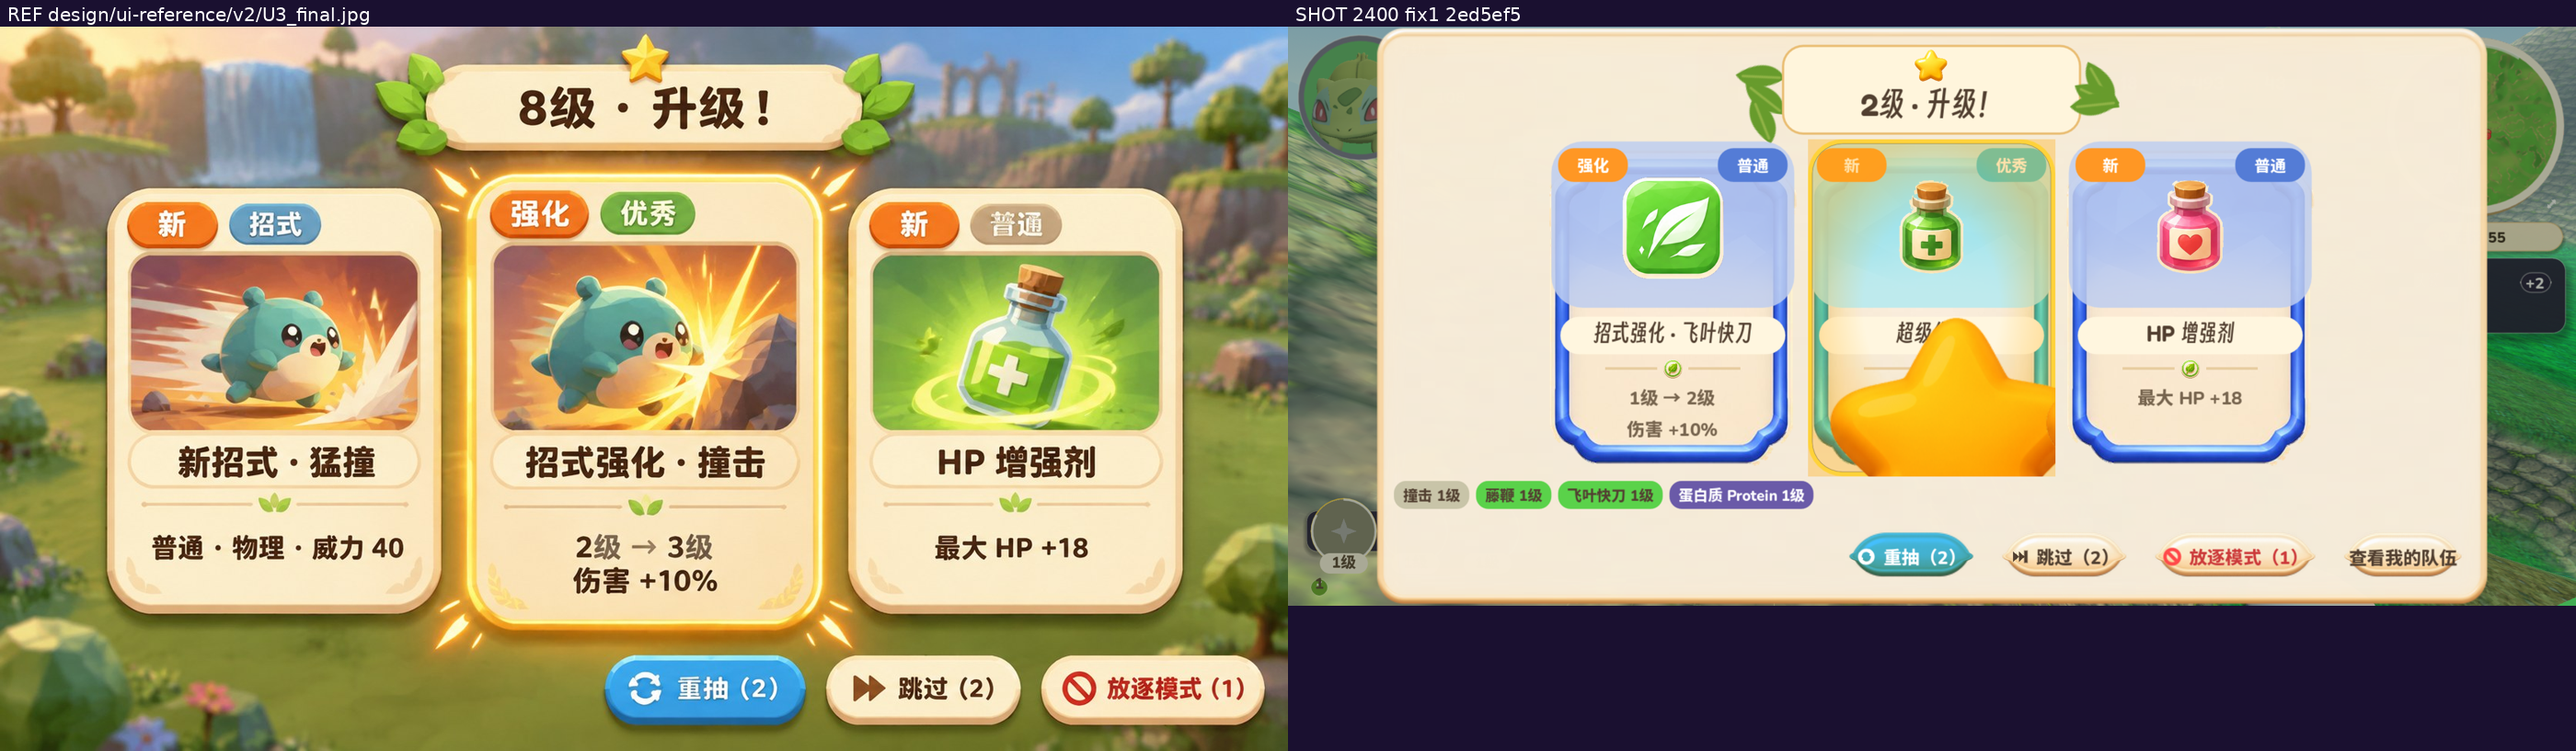
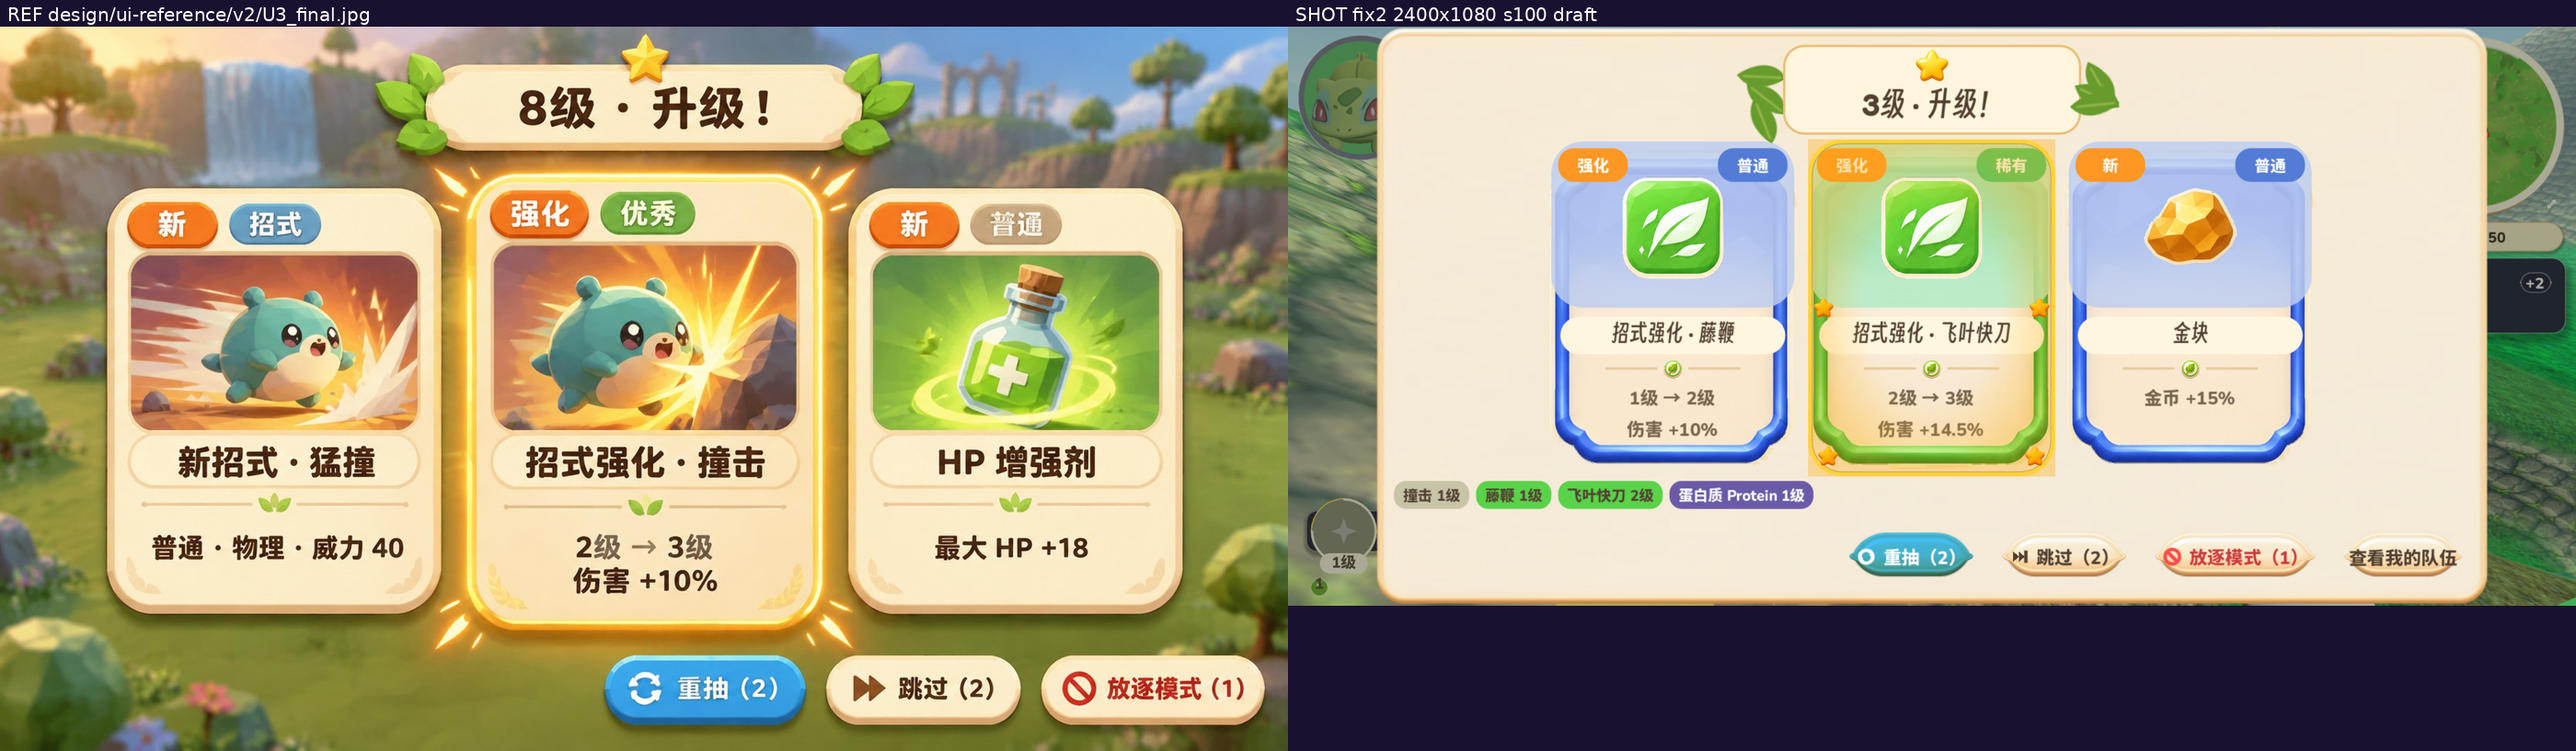
U3 sign-off: fix2 anchor/offset sparkles verified, giant star gone - U3 CLOSED

diff --git a/design/ui-alignment-progress.md b/design/ui-alignment-progress.md
@@ -587,3 +587,11 @@ U1 已重开，U3 不得开工（见「关闭门」）。第 9 轮：2340 复验
 - 传输记录：VM→NUC 整包 rsync 两次中断（15:47 "Connection closed by UNKNOWN port 65535"、15:49 Broken pipe），约 15:48 自愈；300KB 分片＋逐片重试可稳过，大文件仍走分片。
 - **断点（下一轮）**：先读 `Test/out/u3_fix2.done`（两档绿、FAIL=0；checks 1549 与 1564 均接受），取新的 `phone_hud_touch_*_draft.png` 双档快照（注意：fix1 快照现仅存 `..._draft_fix1.png` 与本机副本），核巨星已去、四枚约 20px 金星落在卡角／中缘后重建 compare、逐项亲检再议 U3 签核。Notion 对齐单未动（U3 未关闭）。
 - 本轮提交（align-fix13，已推送，`git ls-remote` 核验 origin 与本地同 SHA）：本节台账＋fix1 双档 compare（`compare/U3.png`、`compare/U3_2400.png`）。
+
+## U3 签核关闭（2026-11-14 16:1x 轮，主控亲检）
+
+- 验证批 `Test/u3_fix2_run.sh`（HEAD b8a3315）ALLDONE 16:03:26：2400 s100 **1564/0**、2340 s100 **1549/0**，双腿 rc=0。
+- fix2 二分定位与修复：巨星源头为 fx 叠层四颗星星——自由 position/size 的 TextureRect 在拟合路径下放大成单颗居中巨星（摘除循环的探针拍 15:29 即去星，探针实证）；fix2 改锚点/偏移定尺（提交 b8a3315，`scripts/world.gd`＋`Test/u3_fix2_probe.sh`＋`Test/u3_fix2_run.sh`），双档复拍实证巨星已去；四枚小星在位——原始图行列扫描量测：右中星 35×31 屏 px、右下星 35×30 屏 px（2400 与 2340 双档同值；20 设计 px 矩形内星形本体约 15 设计 px，纹理自带透明边距所致），左星与卡缘金线相接未单独量——四星在双档实拍上均清晰可辨、位于四角/中缘。
+- 逐项亲检（compare/U3.png 与 compare/U3_2400.png，左参考右实拍；另亲看双档原始 draft 实拍）：① 横幅 ✓ 金星居中压 pill 顶沿、三叶簇贴两端；② 卡顶 pills ✓ 实心色＋白字；③ 主推卡 ✓ 金边＋内辉＋四枚小星；④ 工具行 ✓ 重抽蓝实心居首、跳过/放逐随后、整行右置。⑤ 大面板约束（卡在 legacy 860×452 面板上、不浮于场景）、⑥ 画板豁免（扁平类型色＋小字形标）与内辉近似、叶形分隔徽章形态（32×32 徽章 vs 参考 36×12 嫩芽）记为已记录微残差/用户验收项，照 U1/U2 前例随关闭带过。
+- 结论：**U3 签核关闭**。下一屏：U5 结算屏（循环推进）。
+- 本轮提交（align-fix13，已推送，`git ls-remote` 核验）：本节台账＋fix2 双档 compare（`compare/U3.png`、`compare/U3_2400.png`，NUC 侧由 fix2 捕获重建，与主控本机构建逐字节核对一致）。
